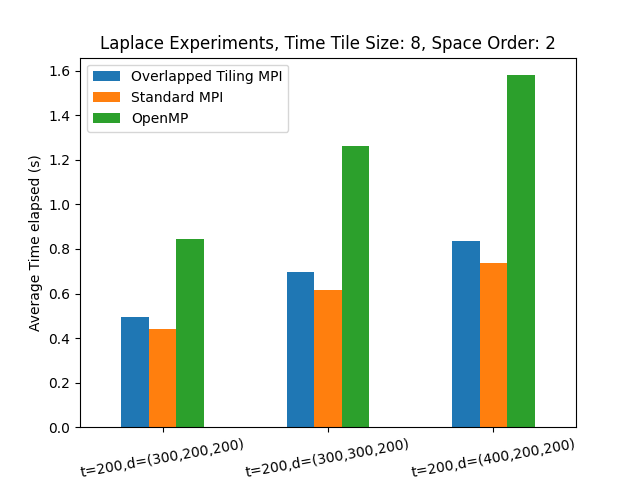
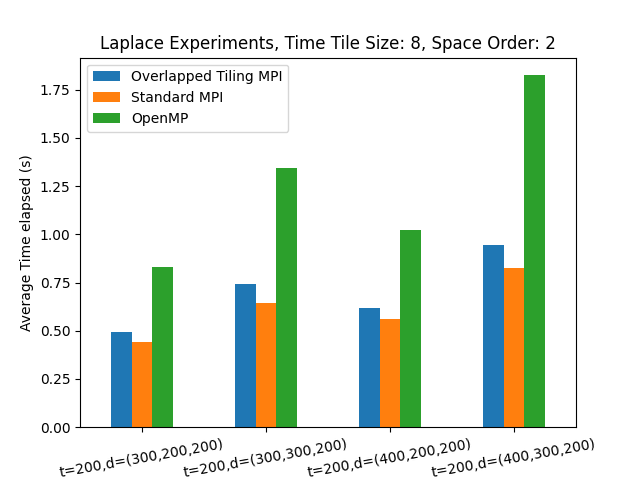
Attempt at less data transfer

diff --git a/mpi_laplace_2so_less_transfer.c b/mpi_laplace_2so_less_transfer.c
@@ -1,0 +1,266 @@
+#define _POSIX_C_SOURCE 200809L
+#define MIN(a,b) (((a) < (b)) ? (a) : (b))
+#define MAX(a,b) (((a) > (b)) ? (a) : (b))
+#define START_TIMER(S) struct timeval start_ ## S , end_ ## S ; gettimeofday(&start_ ## S , NULL);
+#define STOP_TIMER(S,T) gettimeofday(&end_ ## S, NULL); T->S += (double)(end_ ## S .tv_sec-start_ ## S.tv_sec)+(double)(end_ ## S .tv_usec-start_ ## S .tv_usec)/1000000;
+
+#include "stdlib.h"
+#include "math.h"
+#include "sys/time.h"
+#include "xmmintrin.h"
+#include "pmmintrin.h"
+#include "mpi.h"
+#include "omp.h"
+
+struct dataobj
+{
+  void *restrict data;
+  unsigned long * size;
+  unsigned long * npsize;
+  unsigned long * dsize;
+  int * hsize;
+  int * hofs;
+  int * oofs;
+  void * dmap;
+} ;
+
+struct neighborhood
+{
+  int lll, llc, llr, lcl, lcc, lcr, lrl, lrc, lrr;
+  int cll, clc, clr, ccl, ccc, ccr, crl, crc, crr;
+  int rll, rlc, rlr, rcl, rcc, rcr, rrl, rrc, rrr;
+} ;
+
+struct profiler
+{
+  double section0;
+} ;
+
+static void gather0(float *restrict buf_vec, const int x_size, const int y_size, const int z_size, struct dataobj *restrict u_vec, const int otime, const int ox, const int oy, const int oz, const int nthreads);
+static void scatter0(float *restrict buf_vec, const int x_size, const int y_size, const int z_size, struct dataobj *restrict u_vec, const int otime, const int ox, const int oy, const int oz, const int nthreads);
+static void sendrecv0(struct dataobj *restrict u_vec, const int x_size, const int y_size, const int z_size, int ogtime, int ogx, int ogy, int ogz, int ostime, int osx, int osy, int osz, int fromrank, int torank, MPI_Comm comm, const int nthreads);
+static void haloupdate0(struct dataobj *restrict u_vec, MPI_Comm comm, struct neighborhood * nb, int otime, const int nthreads);
+
+const int angle = 1;
+const int time_tile_size = 8;
+const int space_order = angle * 2;
+const int kernel_offset = time_tile_size * space_order;
+
+static int checkisleft(struct neighborhood * nb) {
+  if (nb->lll == MPI_PROC_NULL && nb->llc == MPI_PROC_NULL && nb->llr == MPI_PROC_NULL && nb->lcl == MPI_PROC_NULL && nb->lcc == MPI_PROC_NULL && nb->lcr == MPI_PROC_NULL && nb->lrl == MPI_PROC_NULL && nb->lrc == MPI_PROC_NULL && nb->lrr == MPI_PROC_NULL) {
+    return 1;
+  }
+  return 0;
+}
+
+static int checkisright(struct neighborhood * nb) {
+  if (nb->rll == MPI_PROC_NULL && nb->rlc == MPI_PROC_NULL && nb->rlr == MPI_PROC_NULL && nb->rcl == MPI_PROC_NULL && nb->rcc == MPI_PROC_NULL && nb->rcr == MPI_PROC_NULL && nb->rrl == MPI_PROC_NULL && nb->rrc == MPI_PROC_NULL && nb->rrr == MPI_PROC_NULL) {
+    return 1;
+  }
+  return 0;
+}
+
+static int checkistop(struct neighborhood * nb) {
+  if (nb->lrl == MPI_PROC_NULL && nb->lrc == MPI_PROC_NULL && nb->lrr == MPI_PROC_NULL && nb->crl == MPI_PROC_NULL && nb->crc == MPI_PROC_NULL && nb->crr == MPI_PROC_NULL && nb->rrl == MPI_PROC_NULL && nb->rrc == MPI_PROC_NULL && nb->rrr == MPI_PROC_NULL) {
+    return 1;
+  }
+  return 0;
+}
+
+static int checkisbottom(struct neighborhood * nb) {
+  if (nb->lll == MPI_PROC_NULL && nb->llc == MPI_PROC_NULL && nb->llr == MPI_PROC_NULL && nb->cll == MPI_PROC_NULL && nb->clc == MPI_PROC_NULL && nb->clr == MPI_PROC_NULL && nb->rll == MPI_PROC_NULL && nb->rlc == MPI_PROC_NULL && nb->rlr == MPI_PROC_NULL) {
+    return 1;
+  }
+  return 0;
+}
+
+int Kernel(struct dataobj *restrict u_vec, const float dt, const float h_x, const float h_y, const float h_z, const int time_M, const int time_m, const int x0_blk0_size, const int x_M, const int x_m, const int y0_blk0_size, const int y_M, const int y_m, const int z_M, const int z_m, MPI_Comm comm, struct neighborhood * nb, const int nthreads, struct profiler * timers)
+{
+  float (*restrict u)[u_vec->size[1]][u_vec->size[2]][u_vec->size[3]] __attribute__ ((aligned (64))) = (float (*)[u_vec->size[1]][u_vec->size[2]][u_vec->size[3]]) u_vec->data;
+
+  /* Flush denormal numbers to zero in hardware */
+  _MM_SET_DENORMALS_ZERO_MODE(_MM_DENORMALS_ZERO_ON);
+  _MM_SET_FLUSH_ZERO_MODE(_MM_FLUSH_ZERO_ON);
+
+  float r0 = 1.0F/(h_x*h_x);
+  float r1 = 1.0F/(h_y*h_y);
+  float r2 = 1.0F/(h_z*h_z);
+  float r3 = 1.0F/dt;
+
+  int isleft = checkisleft(nb);
+  int isright = checkisright(nb);
+  int istop = checkistop(nb);
+  int isbottom = checkisbottom(nb);
+
+  for (int time_tile_base = time_m; time_tile_base <= time_M; time_tile_base += time_tile_size)
+  {
+    haloupdate0(u_vec,comm,nb,time_tile_base % 2, nthreads);
+    for (int time = time_tile_base, t0 = (time)%(2), t1 = (time + 1)%(2); time <= MIN(time_M, time_tile_base + time_tile_size - 1); time += 1, t0 = (time)%(2), t1 = (time + 1)%(2))
+    {
+      /* Begin section0 */
+      START_TIMER(section0)
+      int offset = ((time_tile_size - 1) - (time % time_tile_size)) * angle;
+      int lower_x_offset = offset;
+      int upper_x_offset = offset; 
+      int lower_y_offset = offset;
+      int upper_y_offset = offset;
+
+      if (isleft) {
+        lower_x_offset = 0;
+      }
+
+      if (isright) {
+        upper_x_offset = 0;
+      }
+
+      if (isbottom) {
+        lower_y_offset = 0;
+      }
+
+      if (istop) {
+        upper_y_offset = 0;
+      }
+
+      #pragma omp parallel num_threads(nthreads)
+      {
+        #pragma omp for collapse(2) schedule(dynamic,1)
+        for (int x0_blk0 = x_m - lower_x_offset; x0_blk0 <= x_M + upper_x_offset; x0_blk0 += x0_blk0_size)
+        {
+          for (int y0_blk0 = y_m - lower_y_offset; y0_blk0 <= y_M + upper_y_offset; y0_blk0 += y0_blk0_size)
+          {
+            for (int x = x0_blk0; x <= MIN(x0_blk0 + x0_blk0_size - 1, x_M + upper_x_offset); x += 1)
+            {
+              for (int y = y0_blk0; y <= MIN(y0_blk0 + y0_blk0_size - 1, y_M + upper_y_offset); y += 1)
+              {
+                #pragma omp simd aligned(u:32)
+                for (int z = z_m; z <= z_M; z += 1)
+                {
+		  u[t1][x + kernel_offset][y + kernel_offset][z + kernel_offset] = dt*(-r0*u[t0][x + kernel_offset][y + kernel_offset][z + kernel_offset] - r1*u[t0][x + kernel_offset][y + kernel_offset][z + kernel_offset] - r2*u[t0][x + kernel_offset][y + kernel_offset][z + kernel_offset] + r3*u[t0][x + kernel_offset][y + kernel_offset][z + kernel_offset] + 5.0e-1F*(r0*u[t0][x + kernel_offset - 1][y + kernel_offset][z + kernel_offset] + r0*u[t0][x + kernel_offset + 1][y + kernel_offset][z + kernel_offset] + r1*u[t0][x + kernel_offset][y + kernel_offset - 1][z + kernel_offset] + r1*u[t0][x + kernel_offset][y + kernel_offset + 1][z + kernel_offset] + r2*u[t0][x + kernel_offset][y + kernel_offset][z + kernel_offset - 1] + r2*u[t0][x + kernel_offset][y + kernel_offset][z + kernel_offset + 1]) + 1.0e-1F);
+                }
+              }
+            }
+          }
+        }
+      }
+      STOP_TIMER(section0,timers)
+    /* End section0 */
+    }
+  }
+  return 0;
+}
+
+static void gather0(float *restrict buf_vec, const int x_size, const int y_size, const int z_size, struct dataobj *restrict u_vec, const int otime, const int ox, const int oy, const int oz, const int nthreads)
+{
+  float (*restrict buf)[y_size][z_size] __attribute__ ((aligned (64))) = (float (*)[y_size][z_size]) buf_vec;
+  float (*restrict u)[u_vec->size[1]][u_vec->size[2]][u_vec->size[3]] __attribute__ ((aligned (64))) = (float (*)[u_vec->size[1]][u_vec->size[2]][u_vec->size[3]]) u_vec->data;
+
+  const int x_m = 0;
+  const int y_m = 0;
+  const int z_m = 0;
+  const int x_M = x_size - 1;
+  const int y_M = y_size - 1;
+  const int z_M = z_size - 1;
+  #pragma omp parallel num_threads(nthreads)
+  {
+    #pragma omp for collapse(2) schedule(static,1)
+    for (int x = x_m; x <= x_M; x += 1)
+    {
+      for (int y = y_m; y <= y_M; y += 1)
+      {
+        #pragma omp simd aligned(u:32)
+        for (int z = z_m; z <= z_M; z += 1)
+        {
+          buf[x][y][z] = u[otime][x + ox][y + oy][z + oz];
+        }
+      }
+    }
+  }
+}
+
+static void scatter0(float *restrict buf_vec, const int x_size, const int y_size, const int z_size, struct dataobj *restrict u_vec, const int otime, const int ox, const int oy, const int oz, const int nthreads)
+{
+  float (*restrict buf)[y_size][z_size] __attribute__ ((aligned (64))) = (float (*)[y_size][z_size]) buf_vec;
+  float (*restrict u)[u_vec->size[1]][u_vec->size[2]][u_vec->size[3]] __attribute__ ((aligned (64))) = (float (*)[u_vec->size[1]][u_vec->size[2]][u_vec->size[3]]) u_vec->data;
+
+  const int x_m = 0;
+  const int y_m = 0;
+  const int z_m = 0;
+  const int x_M = x_size - 1;
+  const int y_M = y_size - 1;
+  const int z_M = z_size - 1;
+  #pragma omp parallel num_threads(nthreads)
+  {
+    #pragma omp for collapse(2) schedule(static,1)
+    for (int x = x_m; x <= x_M; x += 1)
+    {
+      for (int y = y_m; y <= y_M; y += 1)
+      {
+        #pragma omp simd aligned(u:32)
+        for (int z = z_m; z <= z_M; z += 1)
+        {
+          u[otime][x + ox][y + oy][z + oz] = buf[x][y][z];
+        }
+      }
+    }
+  }
+}
+
+static void sendrecv0(struct dataobj *restrict u_vec, int x_size, int y_size, int z_size, int ogtime, int ogx, int ogy, int ogz, int ostime, int osx, int osy, int osz, int fromrank, int torank, MPI_Comm comm, const int nthreads)
+{
+  if (x_size > kernel_offset) {
+    x_size -= 2 * kernel_offset;
+    ogx += kernel_offset;
+    osx += kernel_offset;
+  }
+
+  if (y_size > kernel_offset) {
+    y_size -= 2 * kernel_offset;
+    ogy += kernel_offset;
+    osy += kernel_offset;
+  }
+
+  if (z_size > kernel_offset) {
+    z_size -= 2 * kernel_offset;
+    ogz += kernel_offset;
+    osz += kernel_offset;
+  }  
+
+  float *restrict bufg_vec __attribute__ ((aligned (64)));
+  posix_memalign((void**)(&bufg_vec),64,x_size*y_size*z_size*sizeof(float));
+  float *restrict bufs_vec __attribute__ ((aligned (64)));
+  posix_memalign((void**)(&bufs_vec),64,x_size*y_size*z_size*sizeof(float));
+
+  MPI_Request rrecv;
+  MPI_Request rsend;
+
+  MPI_Irecv(bufs_vec,x_size*y_size*z_size,MPI_FLOAT,fromrank,13,comm,&(rrecv));
+
+  if (torank != MPI_PROC_NULL)
+  {
+    gather0(bufg_vec,x_size,y_size,z_size,u_vec,ogtime,ogx,ogy,ogz,nthreads);
+  }
+  MPI_Isend(bufg_vec,x_size*y_size*z_size,MPI_FLOAT,torank,13,comm,&(rsend));
+  MPI_Wait(&(rsend),MPI_STATUS_IGNORE);
+  MPI_Wait(&(rrecv),MPI_STATUS_IGNORE);
+  if (fromrank != MPI_PROC_NULL)
+  {
+    scatter0(bufs_vec,x_size,y_size,z_size,u_vec,ostime,osx,osy,osz,nthreads);
+  }
+
+  free(bufg_vec);
+  free(bufs_vec);
+}
+
+static void haloupdate0(struct dataobj *restrict u_vec, MPI_Comm comm, struct neighborhood * nb, int otime, const int nthreads)
+{
+  sendrecv0(u_vec,u_vec->hsize[3],u_vec->npsize[2],u_vec->npsize[3],otime,u_vec->oofs[2],u_vec->hofs[4],u_vec->hofs[6],otime,u_vec->hofs[3],u_vec->hofs[4],u_vec->hofs[6],nb->rcc,nb->lcc,comm,nthreads);
+  sendrecv0(u_vec,u_vec->hsize[2],u_vec->npsize[2],u_vec->npsize[3],otime,u_vec->oofs[3],u_vec->hofs[4],u_vec->hofs[6],otime,u_vec->hofs[2],u_vec->hofs[4],u_vec->hofs[6],nb->lcc,nb->rcc,comm,nthreads);
+  sendrecv0(u_vec,u_vec->npsize[1],u_vec->hsize[5],u_vec->npsize[3],otime,u_vec->hofs[2],u_vec->oofs[4],u_vec->hofs[6],otime,u_vec->hofs[2],u_vec->hofs[5],u_vec->hofs[6],nb->crc,nb->clc,comm,nthreads);
+  sendrecv0(u_vec,u_vec->npsize[1],u_vec->hsize[4],u_vec->npsize[3],otime,u_vec->hofs[2],u_vec->oofs[5],u_vec->hofs[6],otime,u_vec->hofs[2],u_vec->hofs[4],u_vec->hofs[6],nb->clc,nb->crc,comm,nthreads);
+  sendrecv0(u_vec,u_vec->npsize[1],u_vec->npsize[2],u_vec->hsize[7],otime,u_vec->hofs[2],u_vec->hofs[4],u_vec->oofs[6],otime,u_vec->hofs[2],u_vec->hofs[4],u_vec->hofs[7],nb->ccr,nb->ccl,comm,nthreads);
+  sendrecv0(u_vec,u_vec->npsize[1],u_vec->npsize[2],u_vec->hsize[6],otime,u_vec->hofs[2],u_vec->hofs[4],u_vec->oofs[7],otime,u_vec->hofs[2],u_vec->hofs[4],u_vec->hofs[6],nb->ccl,nb->ccr,comm,nthreads);
+}
+/* Backdoor edit at Thu Apr 13 17:50:48 2023*/ 
+/* Backdoor edit at Thu Apr 13 18:22:41 2023*/ 
+/* Backdoor edit at Thu Apr 13 18:23:24 2023*/ 
+/* Backdoor edit at Thu Apr 13 18:24:19 2023*/ 

diff --git a/results/results-pinning_8_tts/postprocessing.py b/results/results-pinning_8_tts/postprocessing.py
@@ -36,7 +36,7 @@ def generate_graph(space_order):
         overlapped_times = []
         openmp_times = []
 
-        for i in range(num_repeats):
+        for i in range(num_repeats - 1):
             try:
                 standard_times.append(float(standard_row[headers.index("elapsed_time")]))
             except IndexError:
